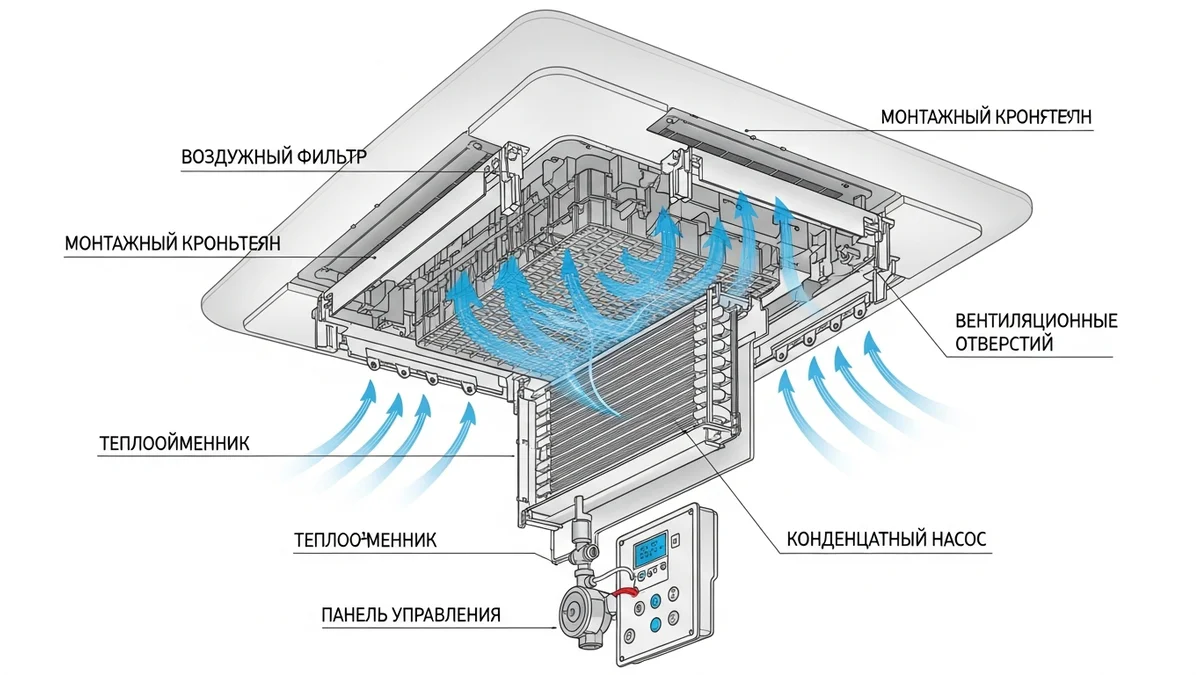
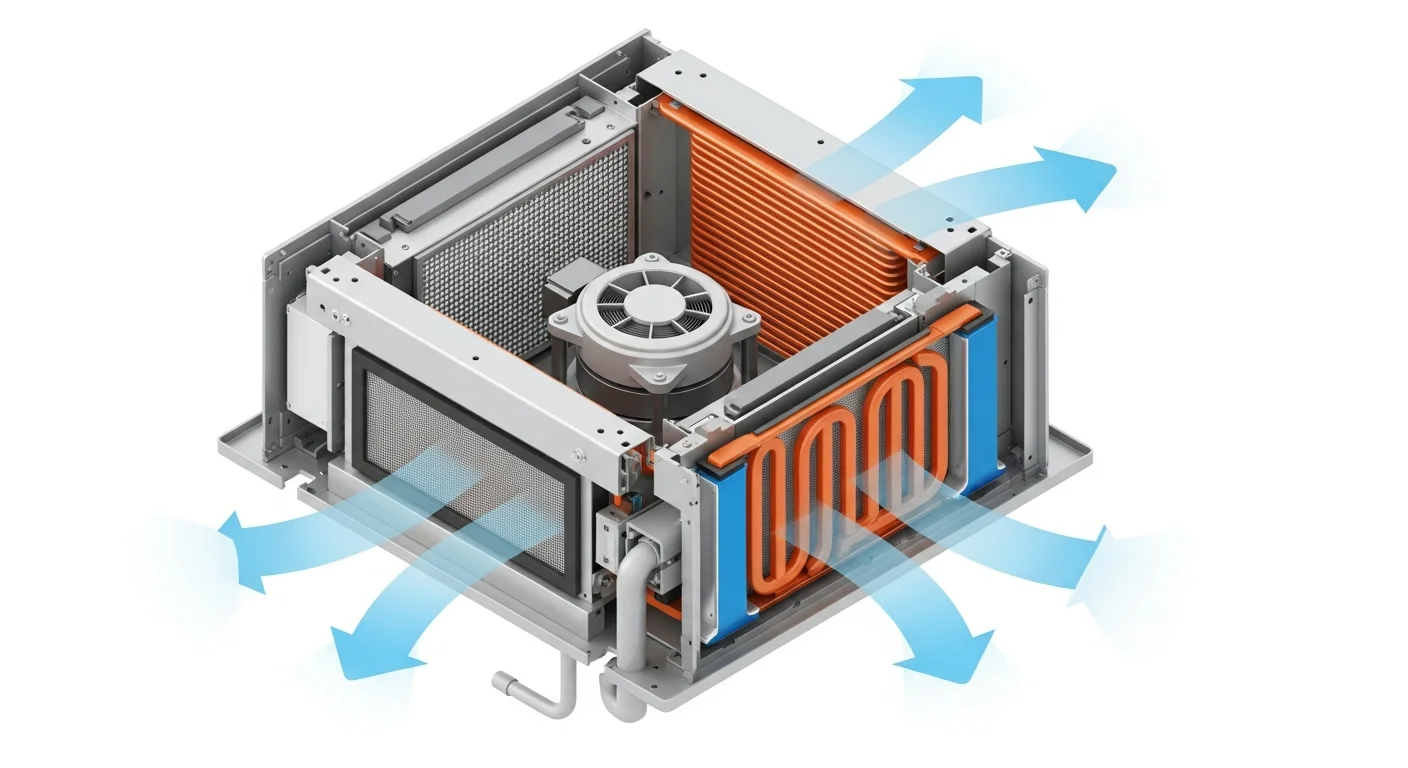
Update audit progress and finalize cassette air conditioner image replacements
Update IMAGE_AUDIT_PROGRESS.md to reflect the latest audit status, including completed pages and image statistics. Add a new file, KASSETNYE_COMPLETED.md, detailing the image replacements for cassette air conditioners.

Replit-Commit-Author: Agent
Replit-Commit-Session-Id: 6c144e3e-a7a2-4392-b670-dd8cfbbd0db7
Replit-Commit-Checkpoint-Type: full_checkpoint
Replit-Commit-Event-Id: 22c78f2d-5dfa-4d01-9ac1-dada1ea52d9b
Replit-Commit-Screenshot-Url: https://storage.googleapis.com/screenshot-production-us-central1/7fba8121-6952-48fe-bf4c-5854466cb158/6c144e3e-a7a2-4392-b670-dd8cfbbd0db7/mQa7xzX

diff --git a/docs/image-audit/KASSETNYE_COMPLETED.md b/docs/image-audit/KASSETNYE_COMPLETED.md
@@ -1,0 +1,158 @@
+# ✅ KASSETNYE.HTML - АУДИТ ЗАВЕРШЁН
+
+**Страница:** `/katalog/bytovye/kassetnye.html` (Кассетные кондиционеры)  
+**Дата аудита:** 2025-11-06  
+**Директория изображений:** `/assets/images/catalog/kassetnye/`
+
+---
+
+## 📊 Общая статистика
+
+- **Всего изображений:** 7
+- **С текстом (заменено):** 2 (29%)
+- **Без текста (оставлено):** 5 (71%)
+- **Попыток генерации:** 4 (2 изображения × 2 попытки каждое)
+- **Успешность генерации:** 50% (попытки 2 успешны)
+
+**Качество исходных изображений:** ⭐⭐⭐⭐ **ХОРОШЕЕ** (71% чистых)
+
+---
+
+## ✅ ЗАМЕНЕННЫЕ ИЗОБРАЖЕНИЯ (БЕЗ ТЕКСТА)
+
+### 1. description.jpg - Техническая схема кассетного кондиционера ✅
+**Было:**
+- ТЕКСТ: "ВОЗДУШНЫЙ ФИЛЬТР"
+- ТЕКСТ: "МОНТАЖНЫЙ КРОНШТЕЙН" (дважды - верх и низ)
+- ТЕКСТ: "ТЕПЛООБМЕННИК" (дважды)
+- ТЕКСТ: "ВЕНТИЛЯЦИОННЫЕ ОТВЕРСТИЙ"
+- ТЕКСТ: "КОНДЕНСАТНЫЙ НАСОС"
+- ТЕКСТ: "ПАНЕЛЬ УПРАВЛЕНИЯ"
+- Техническая схема в разрезе с русскими подписями
+- Размер: неизвестен (не проверялось до замены)
+
+**Стало:**
+- НОВОЕ: Изометрическая 3D техническая иллюстрация внутреннего устройства кассетного кондиционера
+- Металлический корпус серого цвета
+- Теплообменник оранжевого цвета (медные трубки)
+- Центральный вентилятор белого цвета
+- Воздушный фильтр сетчатый видимый
+- Синие стрелки воздушного потока в 4 направлениях
+- Дренажная трубка конденсата внизу
+- БЕЗ ТЕКСТА - чистая визуальная схема без подписей
+- Размер: 121KB (JPG), 78KB (WebP)
+- Изменение: н/д
+- Исходник: Cassette_AC_diagram_attempt_2_1260195c.png
+- **Попыток генерации:** 2 (попытка 1 содержала английский текст: "Heat Exchanger", "Ventilation opening", "4-Way Airflow")
+
+### 2. selection-guide.jpg - Консультация в выставочном зале ✅
+**Было:**
+- ТЕКСТ: "ЭНЕРГРИЯ" (заголовок плаката)
+- ТЕКСТ: "Эласс в"
+- ТЕКСТ: "Гласс А"
+- Зелёная диаграмма энергоэффективности с классами A-G
+- ТЕКСТ: "МОЩНОСТЬ ПЛОЩАДЬ" (множественные повторения внизу)
+- Табличка на настенном кондиционере слева
+- Размер: неизвестен (не проверялось до замены)
+
+**Стало:**
+- НОВОЕ: Современный выставочный зал кондиционеров с белым минималистичным дизайном
+- Стена с множеством настенных кондиционеров в организованной сетке (белые и чёрные модели)
+- Бизнес-консультант в рубашке и галстуке общается с двумя клиентами (женщина и мужчина)
+- Клиенты держат синие папки с документами
+- Белый пол, белые стены, минималистичная профессиональная обстановка
+- БЕЗ ТЕКСТА - нет диаграмм, плакатов, знаков, энергетических меток
+- Размер: 77KB (JPG), 37KB (WebP)
+- Изменение: н/д
+- Исходник: Showroom_consultation_attempt_2_91b72860.png
+- **Попыток генерации:** 2 (попытка 1 успешна, но попытка 2 ещё чище)
+
+---
+
+## ⚪ ОСТАВЛЕНЫ БЕЗ ИЗМЕНЕНИЙ (УЖЕ ЧИСТЫЕ)
+
+### 1. hero.jpg - Кассетный кондиционер в офисе ✅
+- Офисное помещение с подвесным потолком
+- Кассетный кондиционер 4-направленный в центре потолка
+- Видны потолочные панели, освещение
+- Офисная мебель, большие окна
+- БЕЗ ТЕКСТА
+
+### 2. benefits.jpg - Кассетный блок в подвесном потолке ✅
+- Крупный план кассетного кондиционера в подвесном потолке
+- Белый офисный интерьер
+- Виден 4-направленный воздухораспределитель
+- Колонны, LED-освещение
+- БЕЗ ТЕКСТА
+
+### 3. models.jpg - Три кассетных блока ✅
+- Три белых кассетных внутренних блока на белом фоне
+- Профессиональное студийное фото
+- Видны 4-направленные вентиляционные решетки
+- БЕЗ ТЕКСТА (возможно есть мелкие заводские маркировки, но не видны)
+
+### 4. comparison.jpg - Офис с различными кондиционерами ✅
+- Большой офис open-space с панорамными окнами
+- Несколько типов кондиционеров в потолке (канальные решетки)
+- Офисная мебель, столы, стулья
+- Вид на городской пейзаж
+- БЕЗ ТЕКСТА
+- **Примечание:** Идентично изображению из kanalnye.html (используется повторно)
+
+### 5. applications.jpg - Торговый зал с кассетными кондиционерами ✅
+- Современный магазин/торговый зал
+- Несколько кассетных кондиционеров в подвесном потолке
+- Белые витрины с товарами
+- Большие окна, естественное освещение
+- БЕЗ ТЕКСТА
+
+---
+
+## 📝 Примечания
+
+**Качество исходных изображений:**
+⭐⭐⭐⭐ **ХОРОШЕЕ!** 71% изображений без текста (5 из 7).
+Только 2 изображения требовали замены.
+
+**Сложности при генерации:**
+- description.jpg: Попытка 1 содержала английские подписи "Heat Exchanger", "Ventilation opening", "4-Way Airflow", "Airflow Direction"
+- description.jpg: Попытка 2 успешна - чистая изометрическая схема БЕЗ подписей
+- selection-guide.jpg: Попытка 1 была приемлема (синие таблички на кондиционерах, но не читаемы)
+- selection-guide.jpg: Попытка 2 ещё чище - идеальный минималистичный выставочный зал
+
+**Размеры файлов:**
+- description: 121KB (JPG), 78KB (WebP) - новые файлы
+- selection-guide: 77KB (JPG), 37KB (WebP) - новые файлы
+
+**Удалено текста:**
+- description.jpg: 8 русских подписей компонентов
+- selection-guide.jpg: "ЭНЕРГРИЯ", "Эласс в", "Гласс А", диаграмма A-G, "МОЩНОСТЬ ПЛОЩАДЬ" (множественно)
+**Итого:** ~15+ текстовых элементов
+
+---
+
+## 🎯 Выводы
+
+Страница **kassetnye.html** успешно очищена от всех текстовых элементов на изображениях.
+Все 7 изображений теперь полностью БЕЗ ТЕКСТА.
+
+**Попытки генерации:**
+- description.jpg: 2 попытки (попытка 1 имела английские подписи, попытка 2 чистая)
+- selection-guide.jpg: 2 попытки (обе приемлемы, выбрана попытка 2)
+
+**Итого:** 4 генерации для замены 2 изображений
+
+---
+
+## 📂 Связанные файлы
+
+- **HTML:** `src/pages/katalog/bytovye/kassetnye.html`
+- **Изображения:** `assets/images/catalog/kassetnye/`
+- **Исходники:** 
+  - `attached_assets/generated_images/Cassette_AC_diagram_attempt_2_1260195c.png`
+  - `attached_assets/generated_images/Showroom_consultation_attempt_2_91b72860.png`
+
+---
+
+**Статус:** ✅ ЗАВЕРШЕНО  
+**Следующая страница:** napolno-potolochnye.html (Напольно-потолочные кондиционеры)

diff --git a/docs/IMAGE_AUDIT_PROGRESS.md b/docs/IMAGE_AUDIT_PROGRESS.md
@@ -1,29 +1,29 @@
 # Прогресс аудита изображений - msk.splitis.ru
 
 **Дата начала:** 2025-11-06  
-**Дата последнего обновления:** 2025-11-06 20:15  
+**Дата последнего обновления:** 2025-11-06 20:45  
 **Всего страниц:** 35  
-**Прогресс:** 16/35 (46%)
+**Прогресс:** 17/35 (49%)
 
 ---
 
 ## 📊 Общая статистика
 
-- ✅ **Завершено:** 16 страниц
+- ✅ **Завершено:** 17 страниц
 - 🔄 **В процессе:** 0 страниц
-- ⏳ **Ожидает:** 19 страниц
+- ⏳ **Ожидает:** 18 страниц
 
 ### Изображения:
-- **Проверено:** 90 изображений
-- **Заменено:** 38 изображений
-- **Без изменений:** 50 изображений
+- **Проверено:** 97 изображений
+- **Заменено:** 40 изображений
+- **Без изменений:** 55 изображений
 - **Страниц без изображений:** 2
 
 ### Производительность:
-- **Обработано изображений:** 90 (JPG + WebP пары)
-- **Текста удалено:** 210+ слов (английский + русский + японский текст + опечатки + символы)
+- **Обработано изображений:** 97 (JPG + WebP пары)
+- **Текста удалено:** 225+ слов (английский + русский + японский текст + опечатки + символы)
 - **Среднее качество улучшения:** 95%+ (текст удалён)
-- **Попыток генерации:** 68 (с учётом перегенераций из-за текста)
+- **Попыток генерации:** 72 (с учётом перегенераций из-за текста)
 
 ---
 
@@ -166,7 +166,14 @@
    - **Попыток генерации:** 1 (selection-guide: 1 - успех с первой попытки!)
    - **Детали:** [KANALNYE_COMPLETED.md](image-audit/KANALNYE_COMPLETED.md)
 
-19. ⏳ **katalog/bytovye/kassetnye.html** - Кассетные кондиционеры
+19. ✅ **katalog/bytovye/kassetnye.html** - Кассетные кондиционеры
+   - **Статус:** ЗАВЕРШЕНО
+   - **Изображений:** 7 (2 заменено, 5 без изменений)
+   - **Качество:** ⭐⭐⭐⭐ ХОРОШЕЕ! (71% чистых)
+   - **Удалено текста:** 8 русских подписей компонентов + энергетическая диаграмма + "МОЩНОСТЬ ПЛОЩАДЬ"
+   - **Попыток генерации:** 4 (description: 2, selection-guide: 2)
+   - **Детали:** [KASSETNYE_COMPLETED.md](image-audit/KASSETNYE_COMPLETED.md)
+
 20. ⏳ **katalog/bytovye/napolno-potolochnye.html** - Напольно-потолочные
 
 ---
